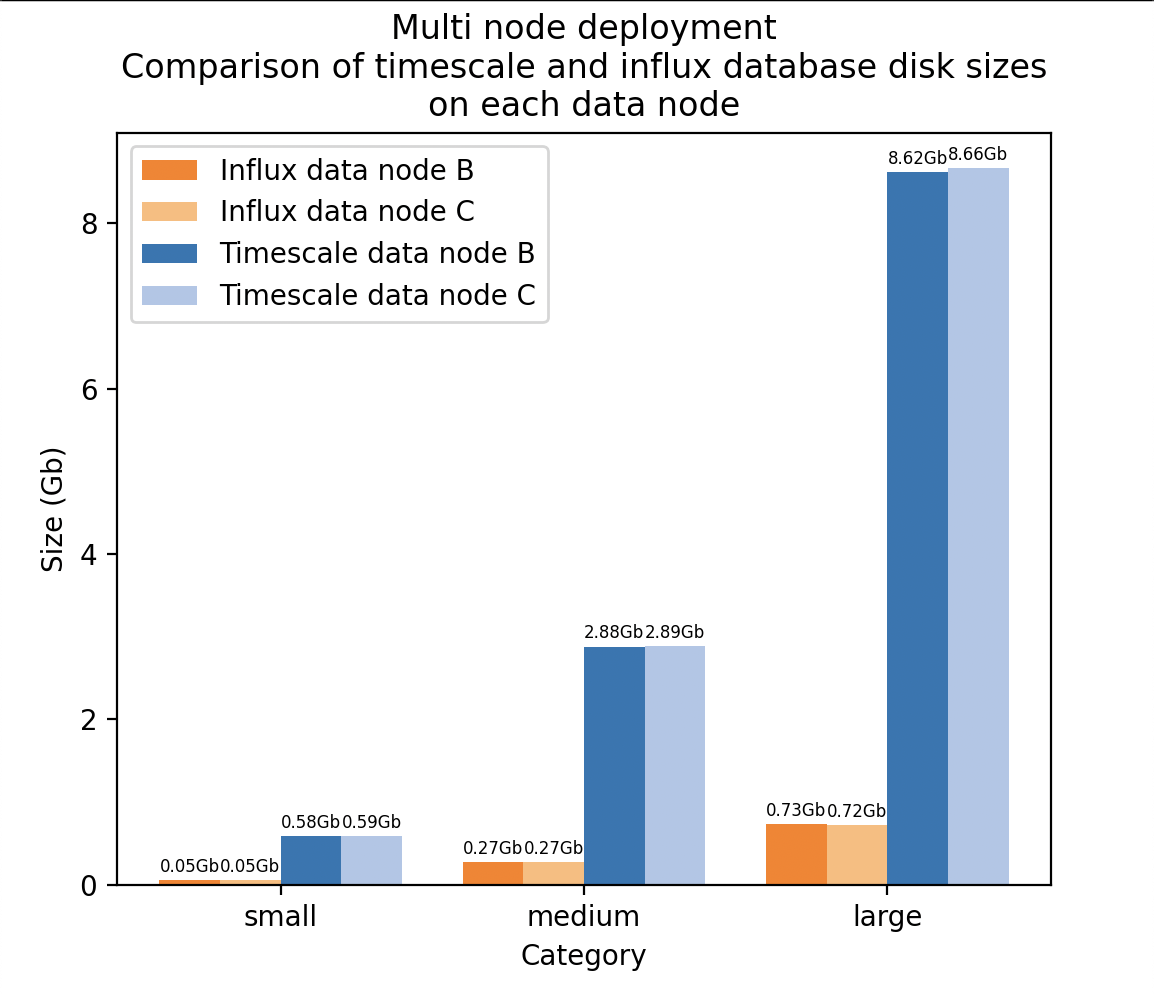
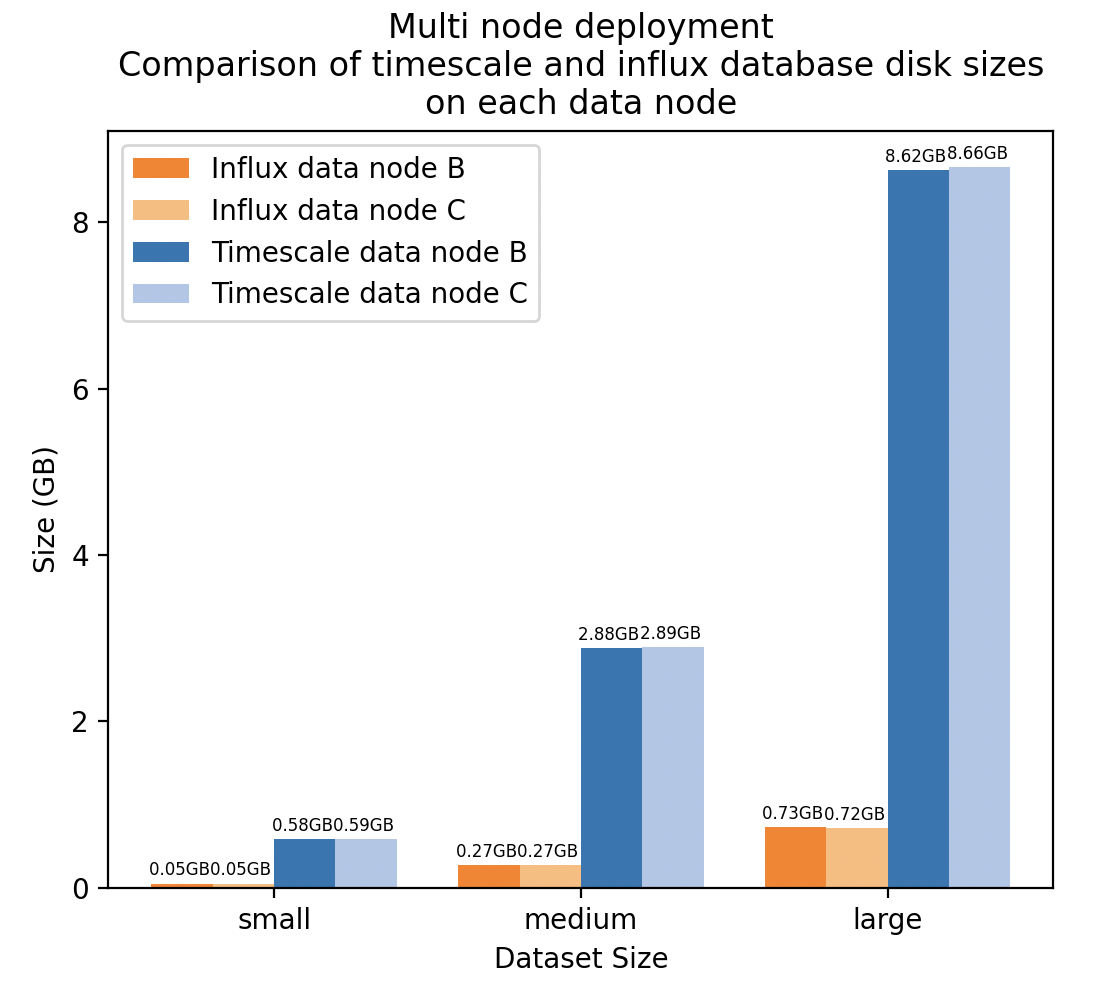
change Gb to GB and fix labels on disk_size_single

Changed region(s): [[0.031, 0.0, 0.9599, 0.998]]

diff --git a/multi_node/scripts/disk_size_plot.py b/multi_node/scripts/disk_size_plot.py
@@ -41,8 +41,8 @@ try:
     bar4 = ax.bar([i + 3*bar_width for i in index],
                     timescale_values_C, bar_width, label='Timescale data node C', color = color_map.get('timescale', {}).get('C_size', None))
 
-    ax.set_xlabel('Category')
-    ax.set_ylabel('Size (Gb)')
+    ax.set_xlabel('Dataset Size')
+    ax.set_ylabel('Size (GB)')
     ax.set_title('Multi node deployment\nComparison of timescale and influx database disk sizes\non each data node', fontsize = 12)
     # Modify the x-ticks to be at the center of each group of bars
     ax.set_xticks([i + bar_width*(len(categories)) / 2 for i in index])
@@ -52,19 +52,19 @@ try:
     #Add labels above each bar
     for bar, value in zip(bar1, influx_values_B):
         ax.text(bar.get_x() + bar.get_width() / 2, bar.get_height() + 0.05,
-                f'{value:.2f}Gb', ha='center', va='bottom').set_size(6)
+                f'{value:.2f}GB ', ha='center', va='bottom').set_size(6)
 
     for bar, value in zip(bar2, influx_values_C):
         ax.text(bar.get_x() + bar.get_width() / 2, bar.get_height() + 0.05,
-                f'{value:.2f}Gb', ha='center', va='bottom').set_size(6)
+                f'{value:.2f}GB ', ha='center', va='bottom').set_size(6)
 
     for bar, value in zip(bar3, timescale_values_B):
         ax.text(bar.get_x() + bar.get_width() / 2, bar.get_height() + 0.05,
-                f'{value:.2f}Gb', ha='center', va='bottom').set_size(6)
+                f'{value:.2f}GB ', ha='center', va='bottom').set_size(6)
 
     for bar, value in zip(bar4, timescale_values_C):
         ax.text(bar.get_x() + bar.get_width() / 2, bar.get_height() + 0.05,
-                f'{value:.2f}Gb', ha='center', va='bottom').set_size(6)
+                f'{value:.2f}GB ', ha='center', va='bottom').set_size(6)
 
 
     plt.show()

diff --git a/single_node/scripts/disk_size_plot.py b/single_node/scripts/disk_size_plot.py
@@ -40,21 +40,21 @@ try:
         bar2 = ax.bar([i + bar_width for i in index],
                       timescale_values, bar_width, label='timescale', color = color_map.get('timescale'))
 
-        ax.set_xlabel('Category')
-        ax.set_ylabel('Size (Gb)')
+        ax.set_xlabel('Dataset Size')
+        ax.set_ylabel('Size (GB)')
         ax.set_title('Single node deployment\nComparison of timescale and influx database disk sizes', fontsize = 12)
         ax.set_xticks([i + bar_width / 2 for i in index])
         ax.set_xticklabels(categories)
         ax.legend()
 
         # Add labels above each bar
-        for bar, value in zip(bar1, timescale_values):
+        for bar, value in zip(bar1, influx_values):
             ax.text(bar.get_x() + bar.get_width() / 2, bar.get_height() + 0.05,
-                    f'{value:.2f}Gb', ha='center', va='bottom')
+                    f'{value:.2f}GB', ha='center', va='bottom')
 
-        for bar, value in zip(bar2, influx_values):
+        for bar, value in zip(bar2, timescale_values):
             ax.text(bar.get_x() + bar.get_width() / 2, bar.get_height() + 0.05,
-                    f'{value:.2f}Gb', ha='center', va='bottom')
+                    f'{value:.2f}GB', ha='center', va='bottom')
 
         plt.show()
 
